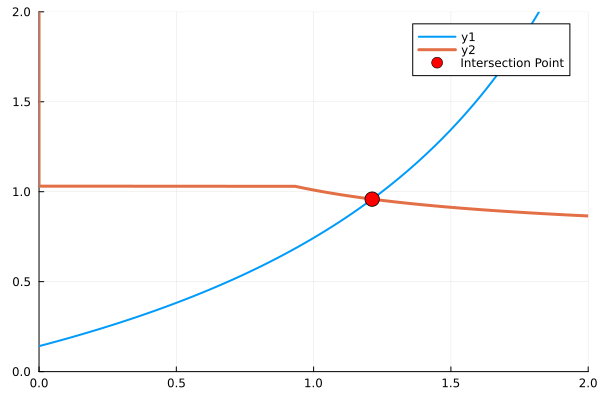
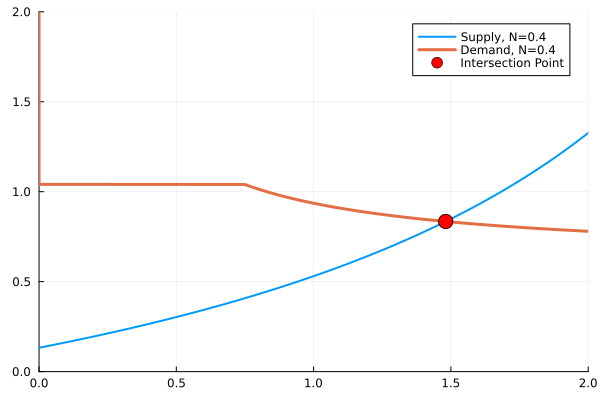
corrected answers

diff --git a/pset1/pset1.tex b/pset1/pset1.tex
@@ -56,6 +56,7 @@ aspects of the financial crisis the model can capture.
 
 The credit crunch model discussed in class captures the following empirical phenomena: collapsed bank collateral, decreased intermediation, and increased interest rate spreads (here, borrowing vs lending rates).
 
+The model can also capture capture less investment by firms (via lower borrowing), unconventional monetary policy, and reductions in deposits via the incentive constraint. 
 
     \item[3.] (9 points) Consider the 2-period credit crunch model discussed in class. Indicate for each statement below if it’s true or false and give a short explanation. No credit without correct explanation.
     \begin{enumerate}
@@ -66,33 +67,38 @@ The credit crunch model discussed in class captures the following empirical phen
 
         This depends on where the supply curve lies. If the supply is such that $R^d=R^s$, then first-best pricing consumption is equal to the decentralized consumption for both periods. This indicates that the decentralized allocation is efficient, so utility is equal to first-best pricing.
 
-        If $R^d<R^s$, however, the decentralized problem is inefficient since $c_1>c_1^*$ and $c_2<c_2^*$ where first best allocation consumption is $c^*$. Computing utility for the first best allocation $u^*$ 
-        \begin{align}
-            u^*(y,N,\beta,R^s)&= \max_{c_1,c_2,s} \ln(c_1^*) + \beta \ln(c_2^*) \notag 
-            \\ &= \ln\left(\frac{y+N}{1+\beta}\right) + \beta \ln\left(\frac{R^s \beta (y+N)}{1+\beta}\right)\label{1}
-        \end{align}
-         Computing utility for the decentralized problem $u$
-         \begin{align}
-             u(y,N,\beta,R^s,R^d)&= \max_{c_1,c_2,s} \ln(c_1^*) + \beta \ln(c_2^*) \notag 
-             \\ &= \ln\left( \frac{R^s(y+N)}{\beta R^d + R^s} \right) + \beta \ln\left( R^s \left( y+N - \frac{R^s}{\beta R^d + R^s} \right)\right) \label{2}
-         \end{align}
-         Comparing \eqref{1} and \eqref{2}
-         \begin{align}
-              %\ln\left(\frac{y+N}{1+\beta}\right) + \beta \ln\left(\frac{R^s \beta (y+N)}{1+\beta}\right) &=^? \ln\left( \frac{R^s(y+N)}{\beta R^d + R^s} \right) + \beta \ln\left( R^s \left( y+N - \frac{R^s}{\beta R^d + R^s} \right)\right)
-              %\\ \frac{(y+N)^{1+\beta} (R^s\beta)^\beta}{(1+\beta)^{1+\beta}} &=^? \frac{R^s(y+N)}{\beta R^d + R^s}\left( R^s \left( y+N - \frac{R^s}{\beta R^d + R^s} \right)\right)^\beta 
-              u^* - u =  \eqref{1} - \eqref{2} &=  \ln\left(\frac{\beta R^d + R^s}{R^s(1+\beta)}  \right) + \beta \notag \ln\left(\frac{\beta (y+N)}{(1+\beta) \left( y+N - \frac{R^s}{\beta R^d + R^s} \right)} \right)
-               \\ &= \ln\left(\frac{\beta R^d + R^s}{R^s(1+\beta)}  \right) + \beta \ln\left(\frac{\beta (N + y) (\beta R^d + R^s)}{(\beta + 1) (\beta N R^d + \beta y R^d + N R^s + y R^s - R^s)}\right)\label{3}
-         \end{align}
-         Here, by monotonicity, we have \eqref{3} is strictly decreasing in $y+N$. Using this, 
-         \[ \begin{cases}
-             u^* \geq u & \text{if } \frac{R^d}{R^s} \geq  \frac{ (1 + \beta)^\beta + \beta (1 + \beta)^\beta-\beta^\beta}{\beta^{1 + \beta}}
-             \\ u^* < u & \text{if }  \frac{R^d}{R^s} < \frac{ (1 + \beta)^\beta + \beta (1 + \beta)^\beta-\beta^\beta}{\beta^{1 + \beta}}
-         \end{cases}\]
-         with a rough solution around $ \frac{ (1 + \beta)^\beta + \beta (1 + \beta)^\beta-\beta^\beta}{\beta^{1 + \beta}}=3$, indicating that $u^* \geq u$ when $R^d \geq 3 R^s.$         
-         This threshold function is decreasing in $\beta$ with a minimum value of 3 ($\beta=1$). Hence, for values $0< \beta < 1$, we get $u^* < u$.
+        If $R^d<R^s$, however, the decentralized problem is inefficient since $c_1>c_1^*$ and $c_2<c_2^*$ where first best allocation consumption is $c^*$. The first best utility $u^*$ is always higher than the inefficient outcome $u$ and will always generate weakly greater utility than the decentralized problem.
+        Hence, the statement is false. 
 
-         Therefore, the statement is true for $R^d<R^s$.
-         %the likelihood of the planners utility $u^*$ rises when $R^s$ is low.
+        %Hence, in any case, the statement that first best allocation delivers a higher consumption level in the first period and lower consumption level in the second period is true, but the first best allocation delivers a \emph{higher} consumption level in the second period but overall a higher utility than an inefficient        equilibrium.
+        
+        % Computing utility for the first best allocation $u^*$ 
+        % \begin{align}
+        %     u^*(y,N,\beta,R^s)&= \max_{c_1,c_2,s} \ln(c_1^*) + \beta \ln(c_2^*) \notag 
+        %     \\ &= \ln\left(\frac{y+N}{1+\beta}\right) + \beta \ln\left(\frac{R^s \beta (y+N)}{1+\beta}\right)\label{1}
+        % \end{align}
+        %  Computing utility for the decentralized problem $u$
+        %  \begin{align}
+        %      u(y,N,\beta,R^s,R^d)&= \max_{c_1,c_2,s} \ln(c_1^*) + \beta \ln(c_2^*) \notag 
+        %      \\ &= \ln\left( \frac{R^s(y+N)}{\beta R^d + R^s} \right) + \beta \ln\left( R^s \left( y+N - \frac{R^s}{\beta R^d + R^s} \right)\right) \label{2}
+        %  \end{align}
+        %  Comparing \eqref{1} and \eqref{2}
+        %  \begin{align}
+        %       %\ln\left(\frac{y+N}{1+\beta}\right) + \beta \ln\left(\frac{R^s \beta (y+N)}{1+\beta}\right) &=^? \ln\left( \frac{R^s(y+N)}{\beta R^d + R^s} \right) + \beta \ln\left( R^s \left( y+N - \frac{R^s}{\beta R^d + R^s} \right)\right)
+        %       %\\ \frac{(y+N)^{1+\beta} (R^s\beta)^\beta}{(1+\beta)^{1+\beta}} &=^? \frac{R^s(y+N)}{\beta R^d + R^s}\left( R^s \left( y+N - \frac{R^s}{\beta R^d + R^s} \right)\right)^\beta 
+        %       u^* - u =  \eqref{1} - \eqref{2} &=  \ln\left(\frac{\beta R^d + R^s}{R^s(1+\beta)}  \right) + \beta \notag \ln\left(\frac{\beta (y+N)}{(1+\beta) \left( y+N - \frac{R^s}{\beta R^d + R^s} \right)} \right)
+        %        \\ &= \ln\left(\frac{\beta R^d + R^s}{R^s(1+\beta)}  \right) + \beta \ln\left(\frac{\beta (N + y) (\beta R^d + R^s)}{(\beta + 1) (\beta N R^d + \beta y R^d + N R^s + y R^s - R^s)}\right)\label{3}
+        %  \end{align}
+        %  Here, by monotonicity, we have \eqref{3} is strictly decreasing in $y+N$. Using this, 
+        %  \[ \begin{cases}
+        %      u^* \geq u & \text{if } \frac{R^d}{R^s} \geq  \frac{ (1 + \beta)^\beta + \beta (1 + \beta)^\beta-\beta^\beta}{\beta^{1 + \beta}}
+        %      \\ u^* < u & \text{if }  \frac{R^d}{R^s} < \frac{ (1 + \beta)^\beta + \beta (1 + \beta)^\beta-\beta^\beta}{\beta^{1 + \beta}}
+        %  \end{cases}\]
+        %  with a rough solution around $ \frac{ (1 + \beta)^\beta + \beta (1 + \beta)^\beta-\beta^\beta}{\beta^{1 + \beta}}=3$, indicating that $u^* \geq u$ when $R^d \geq 3 R^s.$         
+        %  This threshold function is decreasing in $\beta$ with a minimum value of 3 ($\beta=1$). Hence, for values $0< \beta < 1$, we get $u^* < u$.
+
+        %  Therefore, the statement is true for $R^d<R^s$.
+        %  %the likelihood of the planners utility $u^*$ rises when $R^s$ is low.
         
     
      \item (3 points) Bankers have the same optimization problem with or without publicly funded
@@ -108,7 +114,7 @@ The credit crunch model discussed in class captures the following empirical phen
     %\textcolor{red}{NOT DISCUSSED YET }
     For this government intervention, the banker's problem is given by 
     \begin{align}
-            \max_{s,d}\pi =&\max_{d}  R^s(N+d) - R^dd - (R^s-R^d)T   \label{3cb}
+            \max_{s,d}\pi =&\max_{d}  R^s(N+d) - R^dd+ (R^s-R^d)T   \label{3cb}
             \\ & s.t. &\begin{cases}
                 s \leq N + d + T & (BC)
                 \\ \pi \geq \lambda R^s(N+d) + \lambda (R^s - R^d)T & (IC)
@@ -126,28 +132,37 @@ The credit crunch model discussed in class captures the following empirical phen
     Solving \eqref{3cb}:
     \begin{align*}
         \pi &\geq \lambda R^ss 
-        \\ \left(R^{s}-R^{d}\right)(N+d-T)+R^{d}N &\geq \lambda R^s(N+d+T)
-         \\ R^{d}T-d\left(R^{d}+\left((\lambda-1)\left(N+1\right)+\left(\lambda+1\right)T\right)R^{s}\right) &\geq 0 & \text{(demand)}
-         \\ d= \begin{cases}
-             %0 & R^d > R^s
-              \frac{(1-\lambda)}{\lambda}N-T & R^d = R^s 
-             \\ \frac{R^{d}T}{R^{d}+\left((\lambda-1)\left(N+1\right)+\left(\lambda+1\right)T\right)R^{s}} & (1-\lambda)R^s < R^d < R^s
-         \end{cases} && \text{(demand)}
+        \\ R^s(N+d) - R^dd+ (R^s-R^d)T   &\geq \lambda R^s(N+d+T)
+        \\ R^s(N+d+T) - R^sT- R^dd+ (R^s-R^d)T  &\geq \lambda R^s(N+d+T)
+        \\  - R^sT- R^dd+ R^sT - R^dT &\geq (\lambda-1) R^s(N+d+T)
+        \\ \lambda &\leq 1- \frac{R^d(d+T)}{ R^s(N+d+T)} 
+        \\ d &\leq \frac{\left(1-\lambda\right)R^{s}\left(N+T\right)-R^{d}T}{R^{d}-\left(1\ -\lambda\right)R^{s}}
+         % \\ R^{d}T-d\left(R^{d}+\left((\lambda-1)\left(N+1\right)+\left(\lambda+1\right)T\right)R^{s}\right) &\geq 0 & \text{(demand)}
+         % \\ d= \begin{cases}
+         %     %0 & R^d > R^s
+         %      \frac{(1-\lambda)}{\lambda}N-T & R^d = R^s 
+         %     \\ \frac{R^{d}T}{R^{d}+\left((\lambda-1)\left(N+1\right)+\left(\lambda+1\right)T\right)R^{s}} & (1-\lambda)R^s < R^d < R^s
+         % \end{cases} && \text{(demand)}         
     \end{align*}
     From this, we see that the banker's problem has changed. Comparing this with the original demand function,
-    \[d' = \begin{cases}
-         \frac{(1-\lambda)}{\lambda}N & R^d = R^s 
-             \\ \frac{\left(1-\lambda\right)R^{s}N}{R^{d}-\left(1-\lambda\right)R^{s}} & (1-\lambda)R^s < R^d < R^s
-    \end{cases}\]
-    we have  in region $R^d = R^s $ that clearly $d'>d$ as $T>0$. In fact, there is a linear decrease in demand as deposits increase.  In region $R^d < R^s $, suppose it is true that $d'>d$. Let $K= (\lambda-1)\left(N+1\right)+\left(\lambda+1\right)T$
-    \begin{align*}
-        \frac{R^{d}T}{R^{d}+\left((\lambda-1)\left(N+1\right)+\left(\lambda+1\right)T\right)R^{s}} <  \frac{\left(1-\lambda\right)R^{s}N}{R^{d}-\left(1-\lambda\right)R^{s}} 
-        \\ T (R^d)^2 - T(1-\lambda)R^d R^s-(1-\lambda)R^s N R^d - (1-\lambda)(R^s)^2 NK &<  0
-        \\ (1-\lambda)(T+N)R^s R^d + (1-\lambda)(R^s)^2 NK &<T(R^d)^2
-         \\ T\lambda  + (1-\lambda)N^2 &< N (\lambda+1)T
-          \\ T &> \frac{(1-\lambda)N^2}{N(1+\lambda)-\lambda}
-    \end{align*}
-    Hence, our supposition that $d'>d$ is equivalent to the statement $T > \frac{(1-\lambda)N^2}{N(1+\lambda)-\lambda}$ which is true when both $T$ and $N$ are greater than 0.5 for all $0<\lambda<1$. Therefore, the statement is true - deposit demand is lower with publicly funded bank deposits.
+    \[ R^d = \begin{cases}
+        R^s & d=\left( 0,\frac{(1-\lambda)}{\lambda}N\right), \ T=0
+        \\ (1-\lambda) R^s \frac{N+d+T  }{d+T} & d \geq \frac{(1-\lambda)}{\lambda}N, \ T \geq 0
+    \end{cases}
+    \]
+    % \[d' = \begin{cases}
+    %      \frac{(1-\lambda)}{\lambda}N & R^d = R^s 
+    %          \\ \frac{\left(1-\lambda\right)R^{s}N}{R^{d}-\left(1-\lambda\right)R^{s}} & (1-\lambda)R^s < R^d < R^s
+    % \end{cases}\]
+    % we have  in region $R^d = R^s $ that clearly $d'>d$ as $T>0$. In fact, there is a linear decrease in demand as deposits increase.  In region $R^d < R^s $, suppose it is true that $d'>d$. Let $K= (\lambda-1)\left(N+1\right)+\left(\lambda+1\right)T$
+    % \begin{align*}
+    %     \frac{R^{d}T}{R^{d}+\left((\lambda-1)\left(N+1\right)+\left(\lambda+1\right)T\right)R^{s}} <  \frac{\left(1-\lambda\right)R^{s}N}{R^{d}-\left(1-\lambda\right)R^{s}} 
+    %     \\ T (R^d)^2 - T(1-\lambda)R^d R^s-(1-\lambda)R^s N R^d - (1-\lambda)(R^s)^2 NK &<  0
+    %     \\ (1-\lambda)(T+N)R^s R^d + (1-\lambda)(R^s)^2 NK &<T(R^d)^2
+    %      \\ T\lambda  + (1-\lambda)N^2 &< N (\lambda+1)T
+    %       \\ T &> \frac{(1-\lambda)N^2}{N(1+\lambda)-\lambda}
+    % \end{align*}
+    % Hence, our supposition that $d'>d$ is equivalent to the statement $T > \frac{(1-\lambda)N^2}{N(1+\lambda)-\lambda}$ which is true when both $T$ and $N$ are greater than 0.5 for all $0<\lambda<1$. Therefore, the statement is true - deposit demand is lower with publicly funded bank deposits.
     % Solving \eqref{3ch}: 
     % \begin{align*}
     %     c_1 &= \frac{y + \frac{\pi}{R^d}}{1+\beta }=  \frac{y+\frac{R^s(N+d) - R^dd - (R^s-R^d)T }{R^{d}}}{1+\beta} = \frac{y+\frac{\left(R^{s}-R^{d}\right)(N+d-T)+R^{d}N}{R^{d}}}{1+\beta}
@@ -172,7 +187,7 @@ The credit crunch model discussed in class captures the following empirical phen
             d^s &= y - \frac{R^s(N+y)}{\beta R^d + R^s}
             \\ d^d &= \begin{cases}
                 \frac{1-\lambda}{\lambda}N &R^d = R^s
-                \\ \frac{(1-\lambda)R^sN}{R^d - (1-\lambda)R^s} & R^d < R^s
+                \\ \frac{(1-\lambda)R^sN}{R^d - (1-\lambda)R^s} & (1-\lambda)R^s < R^d < R^s
             \end{cases}.
         \end{align*}
         Plugging in assumed values: 
@@ -199,7 +214,10 @@ The credit crunch model discussed in class captures the following empirical phen
         \item[(c)] {(5 points)} Describe both curves and interpret what happens in each region. \textit{Hint:} When discussing demand, check for $R_d > R_s$, $R_d = R_s$, $(1 - \lambda)R_s < R_d < R_s$, $R_d < (1 - \lambda)R_s$.
         \subsubsection*{Solution.}
 
-        In $R_d > R_s$, with every additional dollar of deposits, banker loses money, so $d=0$. In $R_d = R_s$, banks make zero profits on deposits and incentive constraint is slack (this is the flat region of the orange line). In $(1 - \lambda)R_s < R_d < R_s$, $R_d < (1 - \lambda)R_s$, the bank makes profits on deposits, and incentive constraint binds where $d==\frac{\frac{39}{125}}{R^d - \frac{78}{125}} = \frac{39}{125R^{d}-78}.$
+        In $R_d > R_s$, with every additional dollar of deposits, banker loses money, so $d=0$. In $R_d = R_s$, banks make zero profits on deposits and incentive constraint is slack (this is the flat region of the orange line). In $(1 - \lambda)R_s < R_d < R_s$, $R_d < (1 - \lambda)R_s$, the bank makes profits on deposits, and incentive constraint binds where $d=\frac{\frac{39}{125}}{R^d - \frac{78}{125}} = \frac{39}{125R^{d}-78}.$
+        For the asymptote of $R^d$, we have a lower bound of $R^d = (1-\lambda)R^s.$
+
+        For a discussion of supply from households, households make deposits at an increasing rate with $R^d$. Deposits $d$ are only made at the intersection point with demand.
         
         \item[(d)] {(4 points)} Find the equilibrium by eyeballing the graph. What is the equilibrium deposit rate and deposit quantity? What is the spread? How much profits do banks make?
         \subsubsection*{Solution.}
@@ -216,13 +234,13 @@ The credit crunch model discussed in class captures the following empirical phen
         \item[(e)] {(6 points)} Plot (in the same graph from part (b)) and describe what happens to deposit demand and supply if bankers' net worth has risen to $N = 1.2$ at the beginning of period 1. Provide intuition. What is the value of the spread now?
         \subsubsection*{Solution.}
 
-        See Figure \eqref{fig:4e} for the new demand and supply functions overlayed on Figure \eqref{fig:4b}. The intersection for the functions at $N=1.2$ is at ($d = 0.8687$, $R_d = 1.03$). Now, the incentive constraint is slack since we are in the region where $R^d = R^s$, spread is 0.
+        See Figure \eqref{fig:4e} for the new demand and supply functions overlayed on Figure \eqref{fig:4b}. The intersection for the functions at $N=1.2$ is at ($d = 0.8687$, $R_d = 1.03$). Now, the incentive constraint is slack since we are in the region where $R^d = R^s$, spread is 0. Demand has moved rightward since $N$ has increased, moving $\frac{\lambda-1}{\lambda}N$. The supply function has shifted rightward by $R^s(N^\text{new}-N^\text{old})$.  The intuition for the shift is by increasing N we increase the payment from the bank the household gets in time 2. Thus they have less incentive to save in time 1. Likewise for demand, the increase in N alters the size of the region where the IC is slack.
 
         
         \begin{figure}%[H]
             \centering
                 \includegraphics[width=0.7\textwidth]{4e.png}
-                \caption{ }
+                \caption{Part (e) }
                 \label{fig:4e}
         \end{figure}
         
@@ -301,15 +319,18 @@ The credit crunch model discussed in class captures the following empirical phen
     \]
     Solving the planner's problem: 
     \begin{align*}
-       \frac{\partial}{\partial s}: && -\left( y+N-s\right)^{-\sigma} + \beta R^s \left(R^ss \right)^{-\sigma} =0
+       \frac{\partial}{\partial s}: && -\left( c_1\right)^{-\sigma} + \beta R^s \left(c_2 \right)^{-\sigma} &=0
+       \\ && -\left( c_1\right)^{-\sigma} + \beta R^s \left(R^s(N+y-c_1 \right)^{-\sigma} &=0
+       \\  && c_1^* &= \frac{R^{s}(N+y)}{R^{s}\left(\beta R^{s}\right)^{\frac{1}{\sigma}}+1}.
+       %\frac{\left( \beta R^s \right)^{-\frac{1}{\sigma}} R^s (N+y)}{1+R^s\left( \beta R^s \right)^{-\frac{1}{\sigma}}}
     \end{align*}
 
-        \begin{empheq}[box=\fbox]{align*}
-          s^* &= \frac{\left(\beta R^{s}\right)^{\frac{1}{\sigma}}}{R^{s}\left(y+N-s\right)} & \text{(first best loan level to firms)}
-        \\ c_1^* &=  y + N-\frac{\left(\beta R^{s}\right)^{\frac{1}{\sigma}}}{R^{s}\left(y+N-s\right)} & \text{(first best consumption level)}
-        \\c_2^* &=  \frac{ \left(\beta R^{s}\right)^{\frac{1}{\sigma}}}{y+N-s} 
-        \\ d^* &= \frac{\left(\beta R^{s}\right)^{\frac{1}{\sigma}}}{R^{s}\left(y+N-s\right)}-N
-        \end{empheq}
+        % \begin{empheq}[box=\fbox]{align*}
+        %   s^* &= \frac{\left(\beta R^{s}\right)^{\frac{1}{\sigma}}}{R^{s}\left(y+N-s\right)} & \text{(first best loan level to firms)}
+        % \\ c_1^* &=  y + N-\frac{\left(\beta R^{s}\right)^{\frac{1}{\sigma}}}{R^{s}\left(y+N-s\right)} & \text{(first best consumption level)}
+        % \\c_2^* &=  \frac{ \left(\beta R^{s}\right)^{\frac{1}{\sigma}}}{y+N-s} 
+        % \\ d^* &= \frac{\left(\beta R^{s}\right)^{\frac{1}{\sigma}}}{R^{s}\left(y+N-s\right)}-N
+        % \end{empheq}
         
     \end{enumerate}
 
@@ -320,38 +341,52 @@ The credit crunch model discussed in class captures the following empirical phen
         \subsubsection*{Solution.}
 
         
-    We have the household's problem with utility as in the lecture. Let $\pi = R^s(N+d) - R^dd - (R^s-R^d)T.$
+    We have the household's problem with utility as in the lecture. Let $\pi = R^s(N+d) - R^dd + (R^s-R^d)T.$ At time 1, the government transfers T from the household to the bank. At time 2, the government transfers $R^dT$ from the bank to the household. The bank adds $(R^s - R^d)T$ to profits.
+    
     \begin{align}
             &\max_{c_1, c_2}  \ln(c_1) + \beta \ln(c_2)
             && s.t. &\begin{cases}
                 c_1 + d + T =y & (t=1)
                 \\ c_2 = R^d(d+T) + \pi  & (t=2)
             \end{cases} \label{3ch}
-            \\ &&& \iff & c_2 = R^dy + \pi - R^d c_1 \notag  %c_1 = \frac{R^dy + \pi -c_2}{R^d} \notag 
+        \\ &&& \iff & c_2 = R^d(y-c_1) + \pi \notag  %c_1 = \frac{R^dy + \pi -c_2}{R^d} \notag 
     \end{align}
     
     Solving the problem \eqref{3ch}: 
-    \begin{align}
-        c_1 &= \frac{y + \frac{\pi}{R^d}}{1+\beta }=  \frac{y+\frac{R^s(N+d) - R^dd - (R^s-R^d)T }{R^{d}}}{1+\beta} = \frac{y+\frac{\left(R^{s}-R^{d}\right)(N+d-T)+R^{d}N}{R^{d}}}{1+\beta}\notag 
-        \\ d&= y - c_1 = \frac{\beta y-\frac{\left(R^{s}-R^{d}\right)(N+d -T)+R^{d}N}{R^{d}}}{1+\beta} \label{6a_d} %& \text{(supply)}
-        %\\ &=  \frac{\beta y-\frac{\left(R^{s}-R^{d}\right)(N+d -T)+R^{d}N}{R^{d}}}{1+\beta}
-        \\ c_2 &= R^dy + \pi - R^d c_1 = R^dy + \pi - R^d \cdot  \frac{y + \frac{\pi}{R^d}}{1+\beta }
-         = \frac{\beta\left(R^{d}y+\pi\right)}{1+\beta}\notag 
-          \\ &= \frac{\beta}{1+\beta}\left(R^{d}(y+N)+\left(R^{s}-R^{d}\right)(N+d-T)\right) \notag 
-    \end{align}
-    Simplifying \eqref{6a_d}:
-    \begin{align}
-        d&=  \frac{\beta y-\frac{\left(R^{s}-R^{d}\right)(N+d -T)+R^{d}N}{R^{d}}}{1+\beta}\notag 
-        \\ d \left(1+\frac{R^{s}-R^{d}}{\left(1+\beta\right)R^{d}} \right) &= \frac{R^{d}\beta y-\left(R^{s}-R^{d}\right)(N-T)+R^{d}N}{\left(1+\beta\right)R^{d}}\notag 
-        \\ d&=\frac{R^{d}\left(\beta y+N\right)-\left(R^{s}-R^{d}\right)(N-T)}{\beta R^{d}+R^{s}} \label{6a_d'}
-    \end{align}
-
-    Using \eqref{6a_d'} to solve for $c_1$ and $c_2$, we have the household policy functions for $c_1$, $c_2$ and $d$
-    
-            \begin{empheq}[box=\fbox]{align*}
-               d&=\frac{R^{d}\left(\beta y+N\right)-\left(R^{s}-R^{d}\right)(N-T)}{\beta R^{d}+R^{s}}           & (supply)  
-              \\ c_1 &= \frac{\left(R^{s}-2R^{d}\right)N+\left(R^{d}-R^{s}\right)T+R^{s}y}{\beta R^{d}+R^{s}}+\frac{2N}{\beta+1}         \\ c_2 &= \frac{\beta R^{d}\left(R^{s}\left(\beta+1\right)\left(N+y\right)+\left(R^{s}-R^{d}\right)\left(2N-\left(\beta+1\right)T\right)\right)}{\left(\beta+1\right)\left(\beta R^{d}+R^{s}\right)}
+    \begin{align*}
+        \frac{1}{c_1} -\frac{\beta R^dy}{R^d(y-c_1) + \pi} &= 0
+        \\ R^d(y-c_1) + \pi&= -c_1 \beta R^dy
+        \\  R^s(N+d) - R^dd + (R^s-R^d)T &= -c_1 \beta R^dy - R^d(y-c_1)
+    \end{align*}
+     \begin{empheq}[box=\fbox]{align*}
+               c_{1}&=\frac{R^{s}\left(N+d+T\right)+R^{d}\left(y-d-T\right)}{R^{d}\left(1-\beta y\right)}
+               \\ d &= y - T - c_1 
+               \\ &= y - T- \frac{R^{s}\left(N+d+T\right)+R^{d}\left(y-d-T\right)}{R^{d}\left(1-\beta y\right)}
+               \\ c_2 &=R^d(y-c_1) + \pi  
+               \\ &=  R^{d}\left(y-\frac{R^{s}\left(N+d+T\right)+R^{d}\left(y-d-T\right)}{R^{d}\left(1-\beta y\right)}\right)+R^{s}(N+d)-R^{d}d+(R^{s}-R^{d})T
             \end{empheq}
+    
+    % \begin{align}
+    %     c_1 &= \frac{y + \frac{\pi}{R^d}}{1+\beta }=  \frac{y+\frac{R^s(N+d) - R^dd - (R^s-R^d)T }{R^{d}}}{1+\beta} = \frac{y+\frac{\left(R^{s}-R^{d}\right)(N+d-T)+R^{d}N}{R^{d}}}{1+\beta}\notag 
+    %     \\ d&= y - c_1 = \frac{\beta y-\frac{\left(R^{s}-R^{d}\right)(N+d -T)+R^{d}N}{R^{d}}}{1+\beta} \label{6a_d} %& \text{(supply)}
+    %     %\\ &=  \frac{\beta y-\frac{\left(R^{s}-R^{d}\right)(N+d -T)+R^{d}N}{R^{d}}}{1+\beta}
+    %     \\ c_2 &= R^dy + \pi - R^d c_1 = R^dy + \pi - R^d \cdot  \frac{y + \frac{\pi}{R^d}}{1+\beta }
+    %      = \frac{\beta\left(R^{d}y+\pi\right)}{1+\beta}\notag 
+    %       \\ &= \frac{\beta}{1+\beta}\left(R^{d}(y+N)+\left(R^{s}-R^{d}\right)(N+d-T)\right) \notag 
+    % \end{align}
+    % Simplifying \eqref{6a_d}:
+    % \begin{align}
+    %     d&=  \frac{\beta y-\frac{\left(R^{s}-R^{d}\right)(N+d -T)+R^{d}N}{R^{d}}}{1+\beta}\notag 
+    %     \\ d \left(1+\frac{R^{s}-R^{d}}{\left(1+\beta\right)R^{d}} \right) &= \frac{R^{d}\beta y-\left(R^{s}-R^{d}\right)(N-T)+R^{d}N}{\left(1+\beta\right)R^{d}}\notag 
+    %     \\ d&=\frac{R^{d}\left(\beta y+N\right)-\left(R^{s}-R^{d}\right)(N-T)}{\beta R^{d}+R^{s}} \label{6a_d'}
+    % \end{align}
+
+    % Using \eqref{6a_d'} to solve for $c_1$ and $c_2$, we have the household policy functions for $c_1$, $c_2$ and $d$
+    
+    %         \begin{empheq}[box=\fbox]{align*}
+    %            d&=\frac{R^{d}\left(\beta y+N\right)-\left(R^{s}-R^{d}\right)(N-T)}{\beta R^{d}+R^{s}}           & (supply)  
+    %           \\ c_1 &= \frac{\left(R^{s}-2R^{d}\right)N+\left(R^{d}-R^{s}\right)T+R^{s}y}{\beta R^{d}+R^{s}}+\frac{2N}{\beta+1}         \\ c_2 &= \frac{\beta R^{d}\left(R^{s}\left(\beta+1\right)\left(N+y\right)+\left(R^{s}-R^{d}\right)\left(2N-\left(\beta+1\right)T\right)\right)}{\left(\beta+1\right)\left(\beta R^{d}+R^{s}\right)}
+    %         \end{empheq}
         % \begin{empheq}[box=\fbox]{{align}
         %     d&=\frac{R^{d}\left(\beta y+N\right)-\left(R^{s}-R^{d}\right)(N-T)}{\beta R^{d}+R^{s}} 
         %     \\ c_1 &= \frac{d (T - 2 N) + s (N - T + y)}{\beta d + s} + \frac{2N}{\beta + 1} 
@@ -366,7 +401,7 @@ The credit crunch model discussed in class captures the following empirical phen
 
         From my work in 3 (c), we have the banker's problem  \eqref{3cb} where $T$ represents tax-financed bank deposits, restated below: 
         \begin{align*}
-                \max_{s,d}\pi =&\max_{d}  R^s(N+d) - R^dd - (R^s-R^d)T  
+                \max_{s,d}\pi =&\max_{d}  R^s(N+d) - R^dd + (R^s-R^d)T  
                 \\ & s.t. \quad \begin{cases}
                     s \leq N + d + T & (BC)
                     \\ \pi \geq \lambda R^s(N+d) + \lambda (R^s - R^d)T & (IC)
@@ -374,13 +409,14 @@ The credit crunch model discussed in class captures the following empirical phen
         \end{align*}
         Solving the incentive constraint: 
         \begin{align*}
-             R^s(N+d) - R^dd - (R^s-R^d)T&\geq \lambda R^s(N+d) + \lambda (R^s - R^d)T
-            \\ 0 &\leq  \left(1-\lambda\right)R^{s}(N+d)-R^{d}d-\left(\lambda+1\right)(R^{s}-R^{d})T
-            \\ d &\leq \frac{\left(1-\lambda\right)R^{s}N-\left(\lambda+1\right)(R^{s}-R^{d})T}{R^{d}-\left(1-\lambda\right)R^{s}}
+             R^s(N+d) - R^dd + (R^s-R^d)T&\geq \lambda R^s(N+d) + \lambda (R^s - R^d)T
+            % \\ 0 &\leq  \left(1-\lambda\right)R^{s}(N+d)-R^{d}d-\left(\lambda+1\right)(R^{s}-R^{d})T
+            % \\ d &\leq \frac{\left(1-\lambda\right)R^{s}N-\left(\lambda+1\right)(R^{s}-R^{d})T}{R^{d}-\left(1-\lambda\right)R^{s}}
+            \\ d \leq & \frac{(R^{s}-R^{d})T-R^{s}N}{R^{s}+\frac{R^{d}}{\lambda-1}}
             \\d &= \begin{cases}
                  %0 & R^d > R^s
-                  \frac{(1-\lambda)}{\lambda}N & R^d = R^s 
-                 \\ \frac{\left(1-\lambda\right)R^{s}N-\left(\lambda+1\right)(R^{s}-R^{d})T}{R^{d}-\left(1-\lambda\right)R^{s}} & (1-\lambda)R^s < R^d < R^s
+                 \left(0, \frac{(1-\lambda)}{\lambda}N\right) & R^d = R^s 
+                 \\ \frac{(R^{s}-R^{d})T-R^{s}N}{R^{s}+\frac{R^{d}}{\lambda-1}} & (1-\lambda)R^s < R^d < R^s
              \end{cases} && \text{(demand)}
         \end{align*}
 
@@ -410,11 +446,11 @@ The credit crunch model discussed in class captures the following empirical phen
 
         The equilibrium were found at the following and shown in Figure \eqref{fig:6d} and \eqref{fig:6d_d} for equilibrium deposit rates $d$: 
 
-        $T=0$:$ R_d = 0.811, d = 1.3949$
+        $T=0$:$ R_d =0.8106, d = 1.3949$
         
-        $T=0.4$: $R_d = 0.6545, d = 1.271$
+        $T=0.4$: $R_d =  0.7609, d = 1.3949$
 
-        Equilibrium deposits change by 0.1239.
+        Equilibrium deposits change by 0.
 
         \begin{figure}%[H]
             \centering
@@ -585,7 +621,14 @@ The credit crunch model discussed in class captures the following empirical phen
         \item[(f)] {(4 points)} Plot how the tax subsidy alters deposit supply and demand. Use Julia to make this plot and include your code. Where is the new equilibrium?
         \subsubsection*{Solution.}
 
-        The function now plots the first best allocation for demand and supply curves. See code. 
+        The function now plots the first best allocation for demand and supply curves. See Figure \eqref{fig:7f}.
+
+        \begin{figure}%[H]
+            \centering
+                \includegraphics[width=0.7\textwidth]{7f.png}
+                \caption{ }
+                \label{fig:7f}
+        \end{figure}
         
         
     \end{enumerate}

diff --git a/pset2/pset2.tex b/pset2/pset2.tex
@@ -47,6 +47,11 @@
 
     In sovereign default models, limited commitment refers to the decision of the government to repay debt back to creditors based solely on their relative utility. Limited enforcement refers to the few external forces to incentivize repayment by the government to its creditors in the case where it may be more profitable for it to default. In the discussed models, the only enforcement tools offered are reputation loss by financial exclusion and economic damage via output loss. These are often not enough to completely disincentivize default, hence there exists a limited enforcement problem. 
 
+Limited commitment does imply the government makes a decision contingent on utility, but we should also note its payoffs within each period. More broadly limited commitment, is a statement stating that the agent in time t cannot credibly "tie its hands" and commit to a certain action in time t'.
+
+Limited enforcement refers to the lack of an "enforcement authority/mechanism" like a government/court that can compel action. In this case, it is a statement there is no "supranational" authority that could force repayment. This is somewhat distinct from "incentives" the agent faces.
+
+When there are incentives for a rational agent to do something desireable, we would call it incentive compatible.
     
     \item (12 points) {Eaton-Gersovitz (1981) model:} A country issues debt $b' > 0$ at a price $q(b')$ in period 1 to roll over outstanding debt $b > 0$. The benevolent and strategic government lacks commitment as to whether it repays or defaults on its debt in period 2. Output in period 2 is stochastic and denoted by $y'(s) = \sqrt{s}$, where each realization of the state $s \in \{1, 4, 9\}$ occurs with probabilities:
     \[
@@ -231,7 +236,7 @@
        \\ & = \begin{cases}
             0.8& y=2
             \\ 0.2 & y=2.5
-            \\ 0.02 & y=3
+            \\ 0.05 & y=3
         \end{cases}
         \end{align*}
 
@@ -278,8 +283,10 @@
             V^o(B,y) &= \max \{V^r(B,y), V^d(y)\}
             \\ V^r(B,y) &= \max_{B' \geq -Z} \left\{u(c(y,s=\text{repay}))+ \beta \int_{y'}  V^o(B',y') f(y' \mid y)dy' \right\}
             \\&= \max_{B' \geq -Z} \left\{u(y + B - q(B',y)B')+ \beta \mathbb{E}_{y'} \left[  V^o(B',y') \mid y  \right]\right\}
-            \\ V^d(y) &=  u(c(y,s=\text{default})) + \beta \int_{y'}  \left[ (1-\theta)V^d(y') + \theta V^o(0,y') \right] f(y' \mid y) dy'
-            \\ &=  u(hy) + \beta\mathbb{E}_{y'}  \left[ (1-\theta)V^d(y') + \theta V^o(0,y') \right] .
+            \\ V^d(B,y) &=  u(c(y,s=\text{default})) + \beta \int_{y'}  \left[ (1-\theta)V^d(y') + \theta V^o((1-h)B,y') \right] f(y' \mid y) dy'
+            %\\ &=  u(hy) + \beta\mathbb{E}_{y'}  \left[ (1-\theta)V^d(y') + \theta V^o(0,y') \right] .
+            \\ &= V^d(B, y) = u(c(y)) + \beta \int_0^1 [ (1 - \theta) V^d\left(B, \exp\{\rho \log(y) + \sigma_\varepsilon \varepsilon'\} \right) 
+            \\ &+ \theta V^0\left((1 - h)B, \exp\{\rho \log(y) + \sigma_\varepsilon \varepsilon'\} \right) ] d\varepsilon'
         \end{align*}
 
         \item (4 points) Suppose the default threshold $y^*(B)$, at which the government is indifferent between default and repayment in the $(B, y)$-space, is given by $y^*(B) = 5 + \frac{15}{B - 3}$. What is the default probability if the government chooses $B' = -1$ and is currently in state $y = 1.1$?
